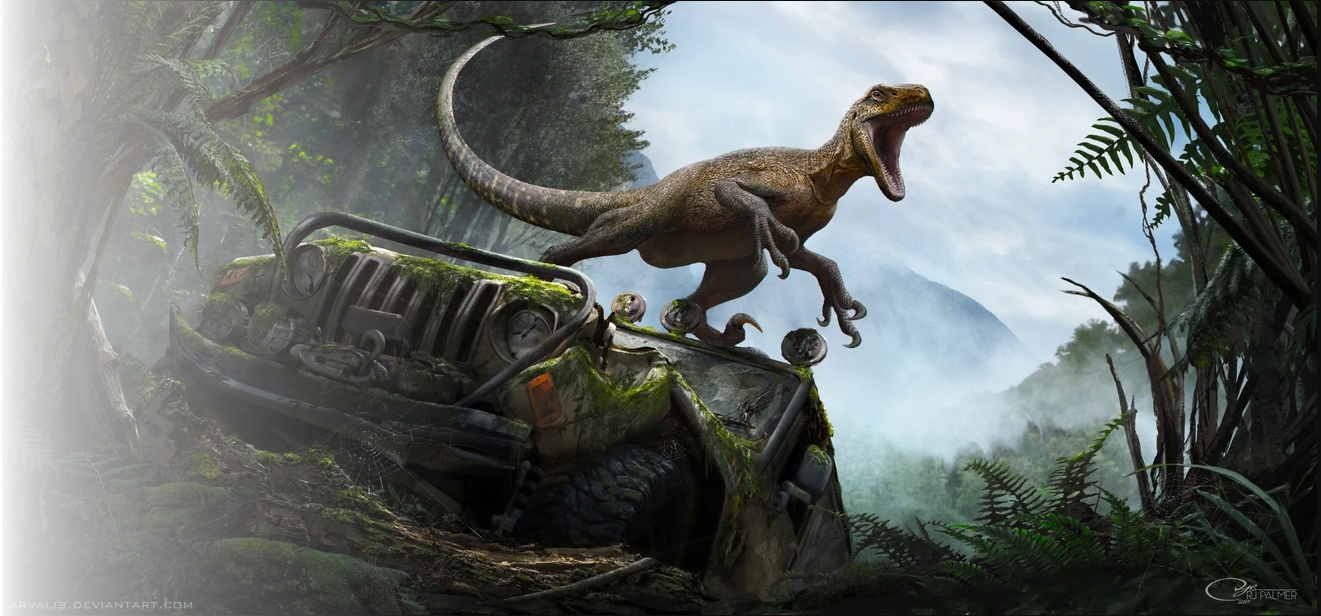
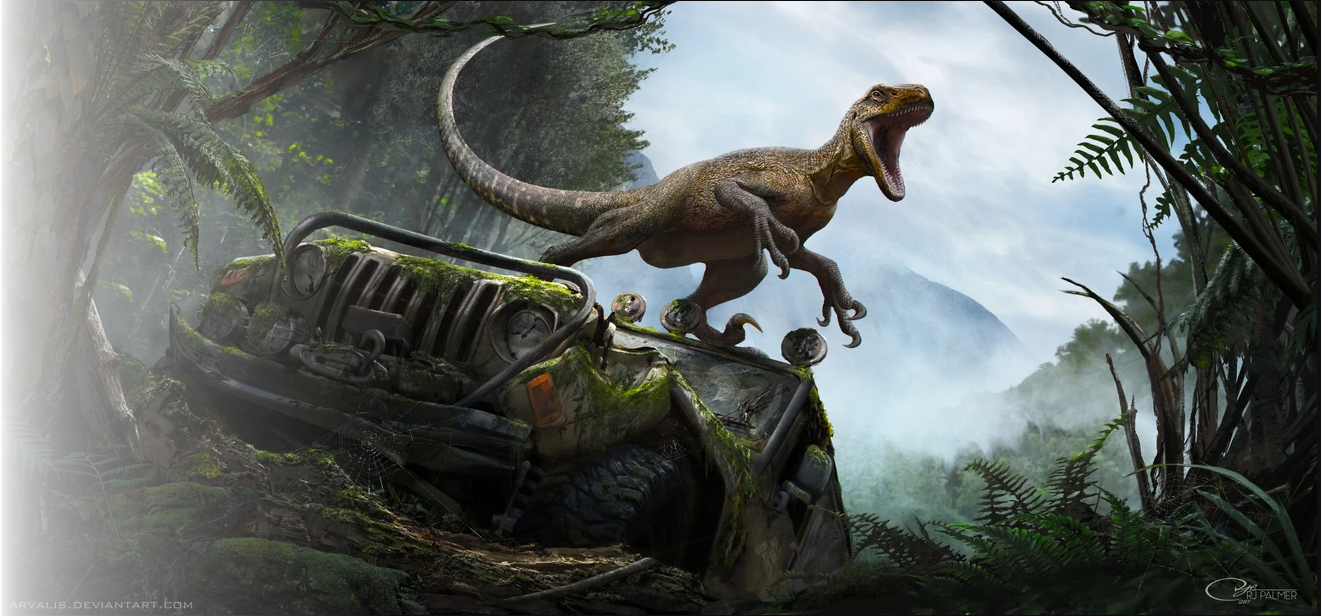
Zoom out hero image, refresh left edge fade

Changed region(s): [[0.031, 0.0, 0.2483, 1.0], [0.1862, 0.1234, 0.2173, 0.1542], [0.1241, 0.3701, 0.1552, 0.401]]

diff --git a/index.html b/index.html
@@ -120,7 +120,7 @@ body {
   position: absolute;
   top: 0;
   right: 0;
-  width: 580px;
+  width: 900px;
   height: 100%;
   pointer-events: none;
   z-index: 0;
